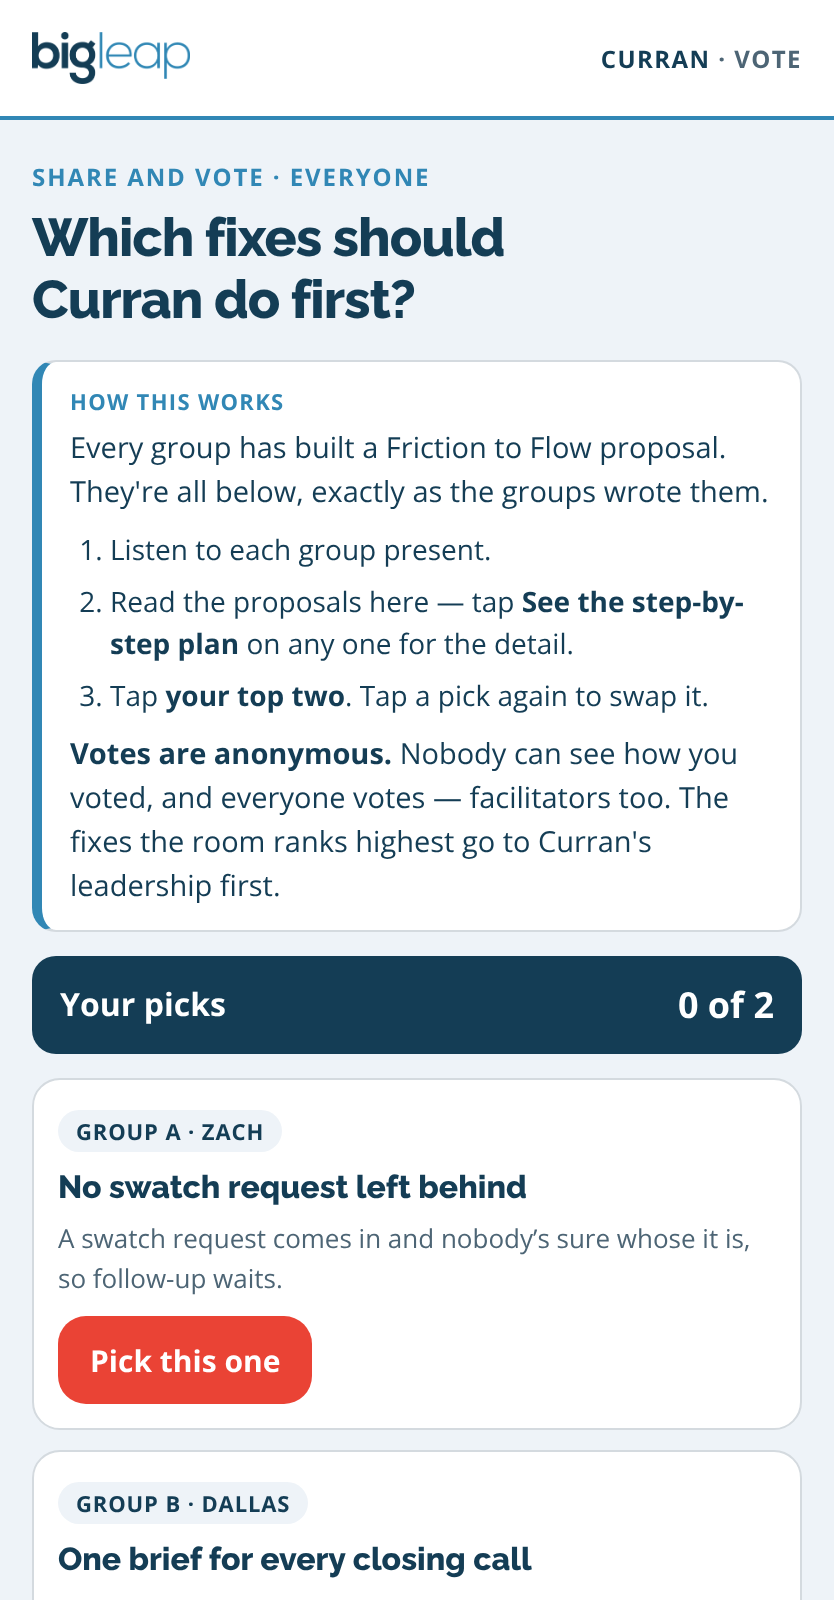
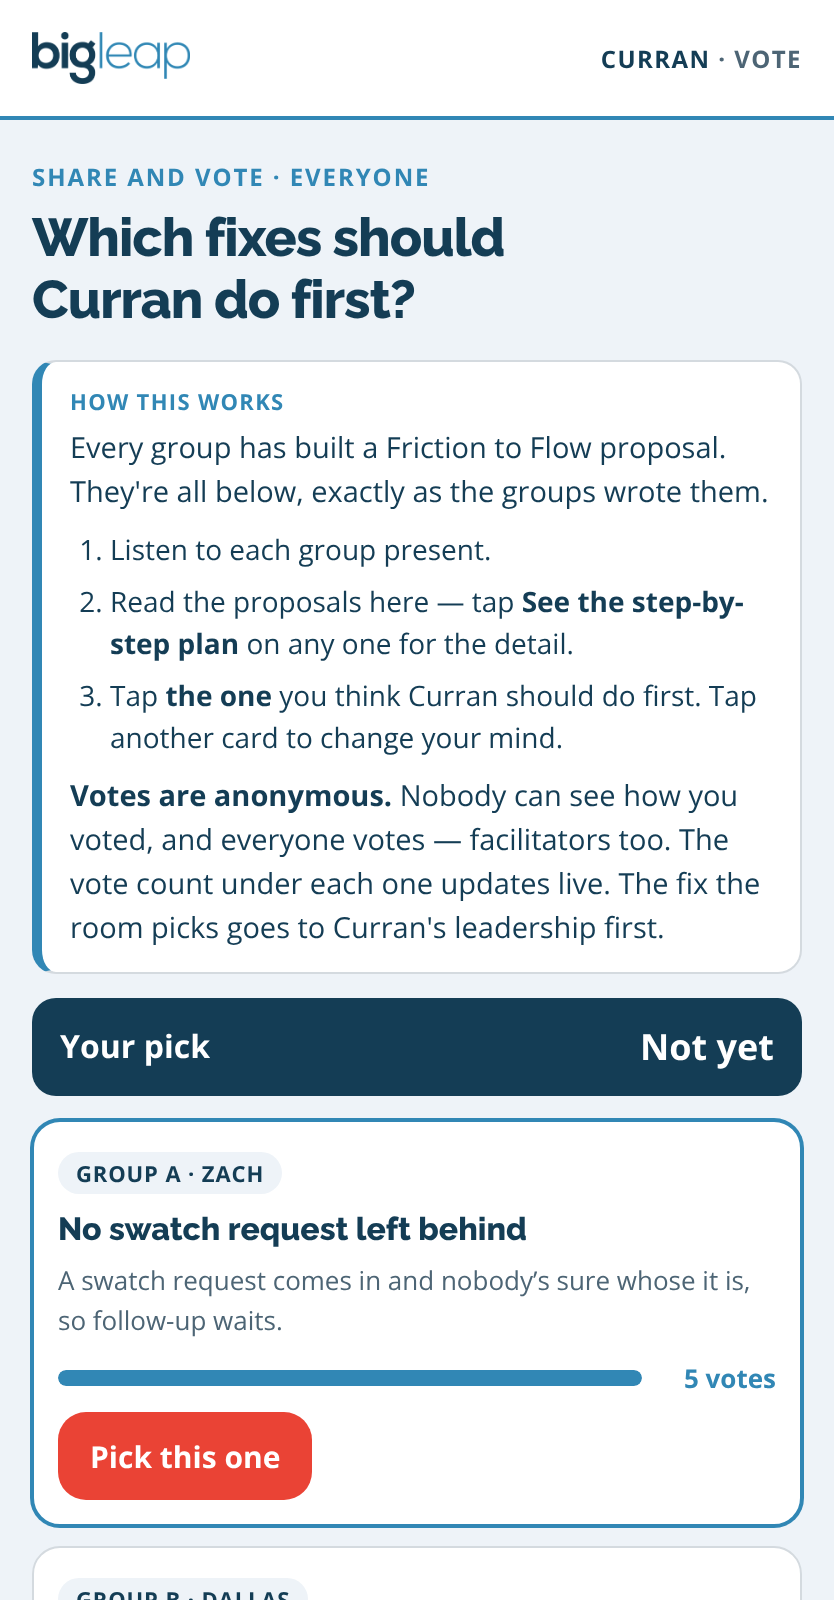
Voting: one pick each, with live vote counts per proposal
Everyone now casts a single vote instead of two. Tapping another card
moves that vote rather than being refused, and tapping your own clears it.

Each proposal card shows its running vote count and a bar scaled to the
leader, refreshed on the same 5s cycle as the rest of the room. Only each
phone's newest vote counts, so changing your mind moves the number instead
of adding one.

Claude-Session: https://claude.ai/code/session_01Hr7wMfKYoBeYjmoic14ePz

Changed region(s): [[0.0312, 0.4062, 0.9664, 1.0], [0.6859, 0.75, 0.9041, 0.8125]]

diff --git a/curran/vote.html b/curran/vote.html
@@ -5,7 +5,7 @@
 <meta name="viewport" content="width=device-width, initial-scale=1, viewport-fit=cover">
 <meta name="robots" content="noindex, nofollow">
 <title>Vote on the fixes</title>
-<meta name="description" content="Every Friction to Flow proposal the room built. Pick your top two.">
+<meta name="description" content="Every Friction to Flow proposal the room built. Pick the one Curran should do first.">
 <link rel="icon" href="../assets/bigleap-logo.png">
 <link rel="stylesheet" href="../assets/workshop.css">
 <style>
@@ -26,6 +26,13 @@
   .live { font:700 12px "Open Sans",Arial,sans-serif; color:var(--blue); margin-top:10px; }
   .counter { position:sticky; top:0; z-index:5; background:var(--navy); color:#fff; border-radius:12px; padding:10px 14px; margin-top:12px; font-weight:800; display:flex; justify-content:space-between; align-items:center; gap:12px; }
   .counter span.n { font-size:18px; }
+  .vc { position:relative; }
+  .tally { display:flex; align-items:center; gap:9px; margin-top:9px; }
+  .tally .bt { flex:1; height:8px; border-radius:999px; background:var(--sky); overflow:hidden; }
+  .tally .bt i { display:block; height:100%; border-radius:999px; background:var(--blue); transition:width .45s ease; }
+  .tally .n { font:800 13px "Open Sans",Arial,sans-serif; color:var(--navy); white-space:nowrap; min-width:58px; text-align:right; }
+  .vc.lead { border-color:var(--blue); box-shadow:0 0 0 1px var(--blue); }
+  .vc.lead .tally .n { color:var(--blue); }
   .seeroom { display:flex; flex-wrap:wrap; gap:10px; align-items:center; justify-content:space-between; background:var(--sky); border-radius:12px; padding:11px 13px; margin-top:14px; }
   .seeroom span { font-weight:700; color:var(--navy); font-size:14px; }
 </style>
@@ -41,12 +48,12 @@
     <ol>
       <li>Listen to each group present.</li>
       <li>Read the proposals here &mdash; tap <b>See the step-by-step plan</b> on any one for the detail.</li>
-      <li>Tap <b>your top two</b>. Tap a pick again to swap it.</li>
+      <li>Tap <b>the one</b> you think Curran should do first. Tap another card to change your mind.</li>
     </ol>
-    <p style="margin-top:8px"><b>Votes are anonymous.</b> Nobody can see how you voted, and everyone votes &mdash; facilitators too. The fixes the room ranks highest go to Curran's leadership first.</p>
+    <p style="margin-top:8px"><b>Votes are anonymous.</b> Nobody can see how you voted, and everyone votes &mdash; facilitators too. The vote count under each one updates live. The fix the room picks goes to Curran's leadership first.</p>
   </div>
 
-  <div class="counter"><span>Your picks</span><span class="n" id="count">0 of 2</span></div>
+  <div class="counter"><span>Your pick</span><span class="n" id="count">Not yet</span></div>
 
   <div class="vote" id="vote"><p class="small">Loading the proposals…</p></div>
   <p class="live" id="voteLive">Updating automatically as groups share.</p>
@@ -60,29 +67,45 @@
 <script src="../assets/config.js"></script>
 <script src="../assets/workshop.js"></script>
 <script>
-  var MAX = 2;
   var KEY = 'bl_ws_' + BL.config.session + '_vote';
   var S = (function () { try { return JSON.parse(localStorage.getItem(KEY) || '{}'); } catch (e) { return {}; } })();
   function save() { try { localStorage.setItem(KEY, JSON.stringify(S)); } catch (e) {} }
   var $ = function (id) { return document.getElementById(id); };
   function pkey(r) { return r.cid + '|' + r.ts; }
 
-  /* Everyone picks their top two. Carries over a vote made on the old breakout step 6. */
-  function votes() {
-    if (!S.votes) {
+  /* One pick each. Carries over a single vote made on the old breakout step 6 or an earlier two-pick round. */
+  function vote() {
+    if (S.vote == null) {
       var old = {};
       try { old = JSON.parse(localStorage.getItem('bl_ws_' + BL.config.session + '_breakout') || '{}'); } catch (e) {}
-      S.votes = (old.votes && old.votes.length) ? old.votes.slice(0, MAX) : (old.vote ? [old.vote] : []);
+      S.vote = (S.votes && S.votes.length) ? S.votes[0] : ((old.votes && old.votes.length) ? old.votes[0] : (old.vote || ''));
+      delete S.votes; save();
     }
-    return S.votes;
+    return S.vote || '';
   }
-  function setCount() { $('count').textContent = votes().length + ' of ' + MAX; }
+
+  /* Live tally: only each phone's newest vote counts, so changing your mind moves the count. */
+  function tally(voteRows) {
+    var last = {};
+    (voteRows || []).forEach(function (r) {
+      if (!r.payload || r.payload.kind !== 'vote') return;
+      var c = r.cid || Math.random();
+      if (!last[c] || String(r.ts) >= String(last[c].ts)) last[c] = r;
+    });
+    var counts = {}, voters = 0;
+    Object.keys(last).forEach(function (c) {
+      var pl = last[c].payload, t = pl.target || ((pl.targets && pl.targets.length) ? pl.targets[0] : '');
+      if (!t) return;
+      voters++; counts[t] = (counts[t] || 0) + 1;
+    });
+    return { counts: counts, voters: voters };
+  }
 
   function loadVotes(quiet) {
     var el = $('vote');
-    if (!quiet) el.innerHTML = '<p class="small">Loading the proposals…</p>';
-    BL.load('fixit').then(function (rows) {
-      var props = rows.filter(function (r) { return r.payload && r.payload.kind === 'proposal'; });
+    if (!quiet) el.innerHTML = '<p class="small">Loading the proposals\u2026</p>';
+    Promise.all([BL.load('fixit'), BL.load('moves')]).then(function (res) {
+      var props = res[0].filter(function (r) { return r.payload && r.payload.kind === 'proposal'; });
       /* Newest version of each proposal; a group may share more than one. */
       var latest = {};
       props.forEach(function (r) {
@@ -91,37 +114,48 @@
       });
       props = Object.keys(latest).map(function (k) { return latest[k]; })
         .sort(function (a, b) { return String(a.ts) < String(b.ts) ? -1 : 1; });
-      if (!props.length) { el.innerHTML = '<p class="small">No proposals yet. They appear here as groups share them.</p>'; setCount(); return; }
-      var chosen = votes();
+
+      var t = tally(res[1]), counts = t.counts;
+      if (!props.length) { el.innerHTML = '<p class="small">No proposals yet. They appear here as groups share them.</p>'; setCount(0); return; }
+
+      var mine = vote();
+      var top = 0;
+      props.forEach(function (r) { top = Math.max(top, counts[pkey(r)] || 0); });
+
       el.innerHTML = props.map(function (r) {
-        var p = r.payload, k = pkey(r), rank = chosen.indexOf(k), mine = rank >= 0;
-        var plan = (p.plan && p.plan.length) ? p.plan : BL.buildPlan(p).map(function (x) {
+        var pl = r.payload, k = pkey(r), picked = k === mine, n = counts[k] || 0;
+        var plan = (pl.plan && pl.plan.length) ? pl.plan : BL.buildPlan(pl).map(function (x) {
           var d = document.createElement('div'); d.innerHTML = x.d; return { t: x.t, d: d.textContent };
         });
-        return '<div class="vc' + (mine ? ' picked' : '') + '"><span class="pill">' + BL.esc(BL.groupName(r.group) || 'A group') + '</span>' +
-          '<b style="margin-top:6px">' + BL.esc(p.title || p.problem) + '</b>' +
-          (p.title ? '<p class="small">' + BL.esc(p.problem) + '</p>' : '') +
+        return '<div class="vc' + (picked ? ' picked' : '') + (n && n === top ? ' lead' : '') + '"><span class="pill">' + BL.esc(BL.groupName(r.group) || 'A group') + '</span>' +
+          '<b style="margin-top:6px">' + BL.esc(pl.title || pl.problem) + '</b>' +
+          (pl.title ? '<p class="small">' + BL.esc(pl.problem) + '</p>' : '') +
           (plan.length ? '<details class="vplan"><summary>See the step-by-step plan</summary><ol>' +
             plan.map(function (x) { return '<li><b>' + BL.esc(x.t) + '</b> ' + BL.esc(x.d) + '</li>'; }).join('') + '</ol></details>' : '') +
-          '<button class="btn ' + (mine ? 'navy' : '') + '" type="button" data-vote="' + BL.esc(k) + '" data-g="' + BL.esc(r.group) + '"' + (mine ? ' aria-pressed="true"' : '') + '>' +
-          (mine ? '✓ Picked (' + (rank + 1) + ' of ' + MAX + ')' : chosen.length >= MAX ? 'Tap one of your picks to swap' : 'Pick this one') + '</button></div>';
+          '<div class="tally"><div class="bt"><i style="width:' + (top ? Math.round(100 * n / top) : 0) + '%"></i></div>' +
+          '<span class="n">' + n + (n === 1 ? ' vote' : ' votes') + '</span></div>' +
+          '<button class="btn ' + (picked ? 'navy' : '') + '" type="button" data-vote="' + BL.esc(k) + '" data-g="' + BL.esc(r.group) + '"' + (picked ? ' aria-pressed="true"' : '') + '>' +
+          (picked ? '\u2713 This is your pick' : mine ? 'Pick this one instead' : 'Pick this one') + '</button></div>';
       }).join('') +
-        '<p class="small" style="margin-top:2px">' + (chosen.length ? 'You’ve picked <b>' + chosen.length + ' of ' + MAX + '</b>. Tap a pick again to remove it.' : 'Pick up to two. Tap a card to add it.') + '</p>';
-      setCount();
-    }).catch(function () { el.innerHTML = '<p class="small">Can’t load the proposals right now. Tap refresh.</p>'; });
+        '<p class="small" style="margin-top:2px">' + (mine ? 'Your pick is in. Tap another card to change it, or tap your own to clear it.' : 'Pick one. Tap a card to cast your vote.') +
+        ' <b>' + t.voters + (t.voters === 1 ? ' person has' : ' people have') + ' voted</b> so far.</p>';
+      setCount(t.voters);
+    }).catch(function () { el.innerHTML = '<p class="small">Can\u2019t load the proposals right now. Tap refresh.</p>'; });
   }
+
+  function setCount() { $('count').textContent = vote() ? 'In \u2713' : 'Not yet'; }
 
   $('vote').addEventListener('click', function (e) {
     var b = e.target.closest('[data-vote]'); if (!b) return;
-    var k = b.getAttribute('data-vote'), v = votes(), at = v.indexOf(k);
-    if (at >= 0) { v.splice(at, 1); BL.toast('Removed. ' + v.length + ' of ' + MAX + ' picked.'); }
-    else if (v.length >= MAX) { BL.toast('You have two. Tap one of them to swap it out.'); return; }
-    else { v.push(k); }
-    S.votes = v; save();
+    var k = b.getAttribute('data-vote'), had = vote();
+    /* Tapping your own pick clears it; tapping any other card moves your single vote there. */
+    S.vote = (k === had) ? '' : k;
+    save(); setCount();
+    BL.toast(!S.vote ? 'Pick cleared. Tap a card to vote.' : had ? 'Changed to this one. Thank you!' : 'Vote in. Thank you!');
     var groups = {};
     document.querySelectorAll('[data-vote]').forEach(function (x) { groups[x.getAttribute('data-vote')] = x.getAttribute('data-g'); });
-    BL.submit('moves', { _id: 'vote', kind: 'vote', targets: v, targetGroups: v.map(function (x) { return groups[x] || ''; }), target: v[0] || '' })
-      .then(function () { if (v.length === MAX) BL.toast('Both picks in. Thank you!'); loadVotes(true); });
+    BL.submit('moves', { _id: 'vote', kind: 'vote', target: S.vote, targets: S.vote ? [S.vote] : [], targetGroups: S.vote ? [groups[S.vote] || ''] : [] })
+      .then(function () { loadVotes(true); });
   });
   $('vrefresh').addEventListener('click', function () { loadVotes(); });
 
